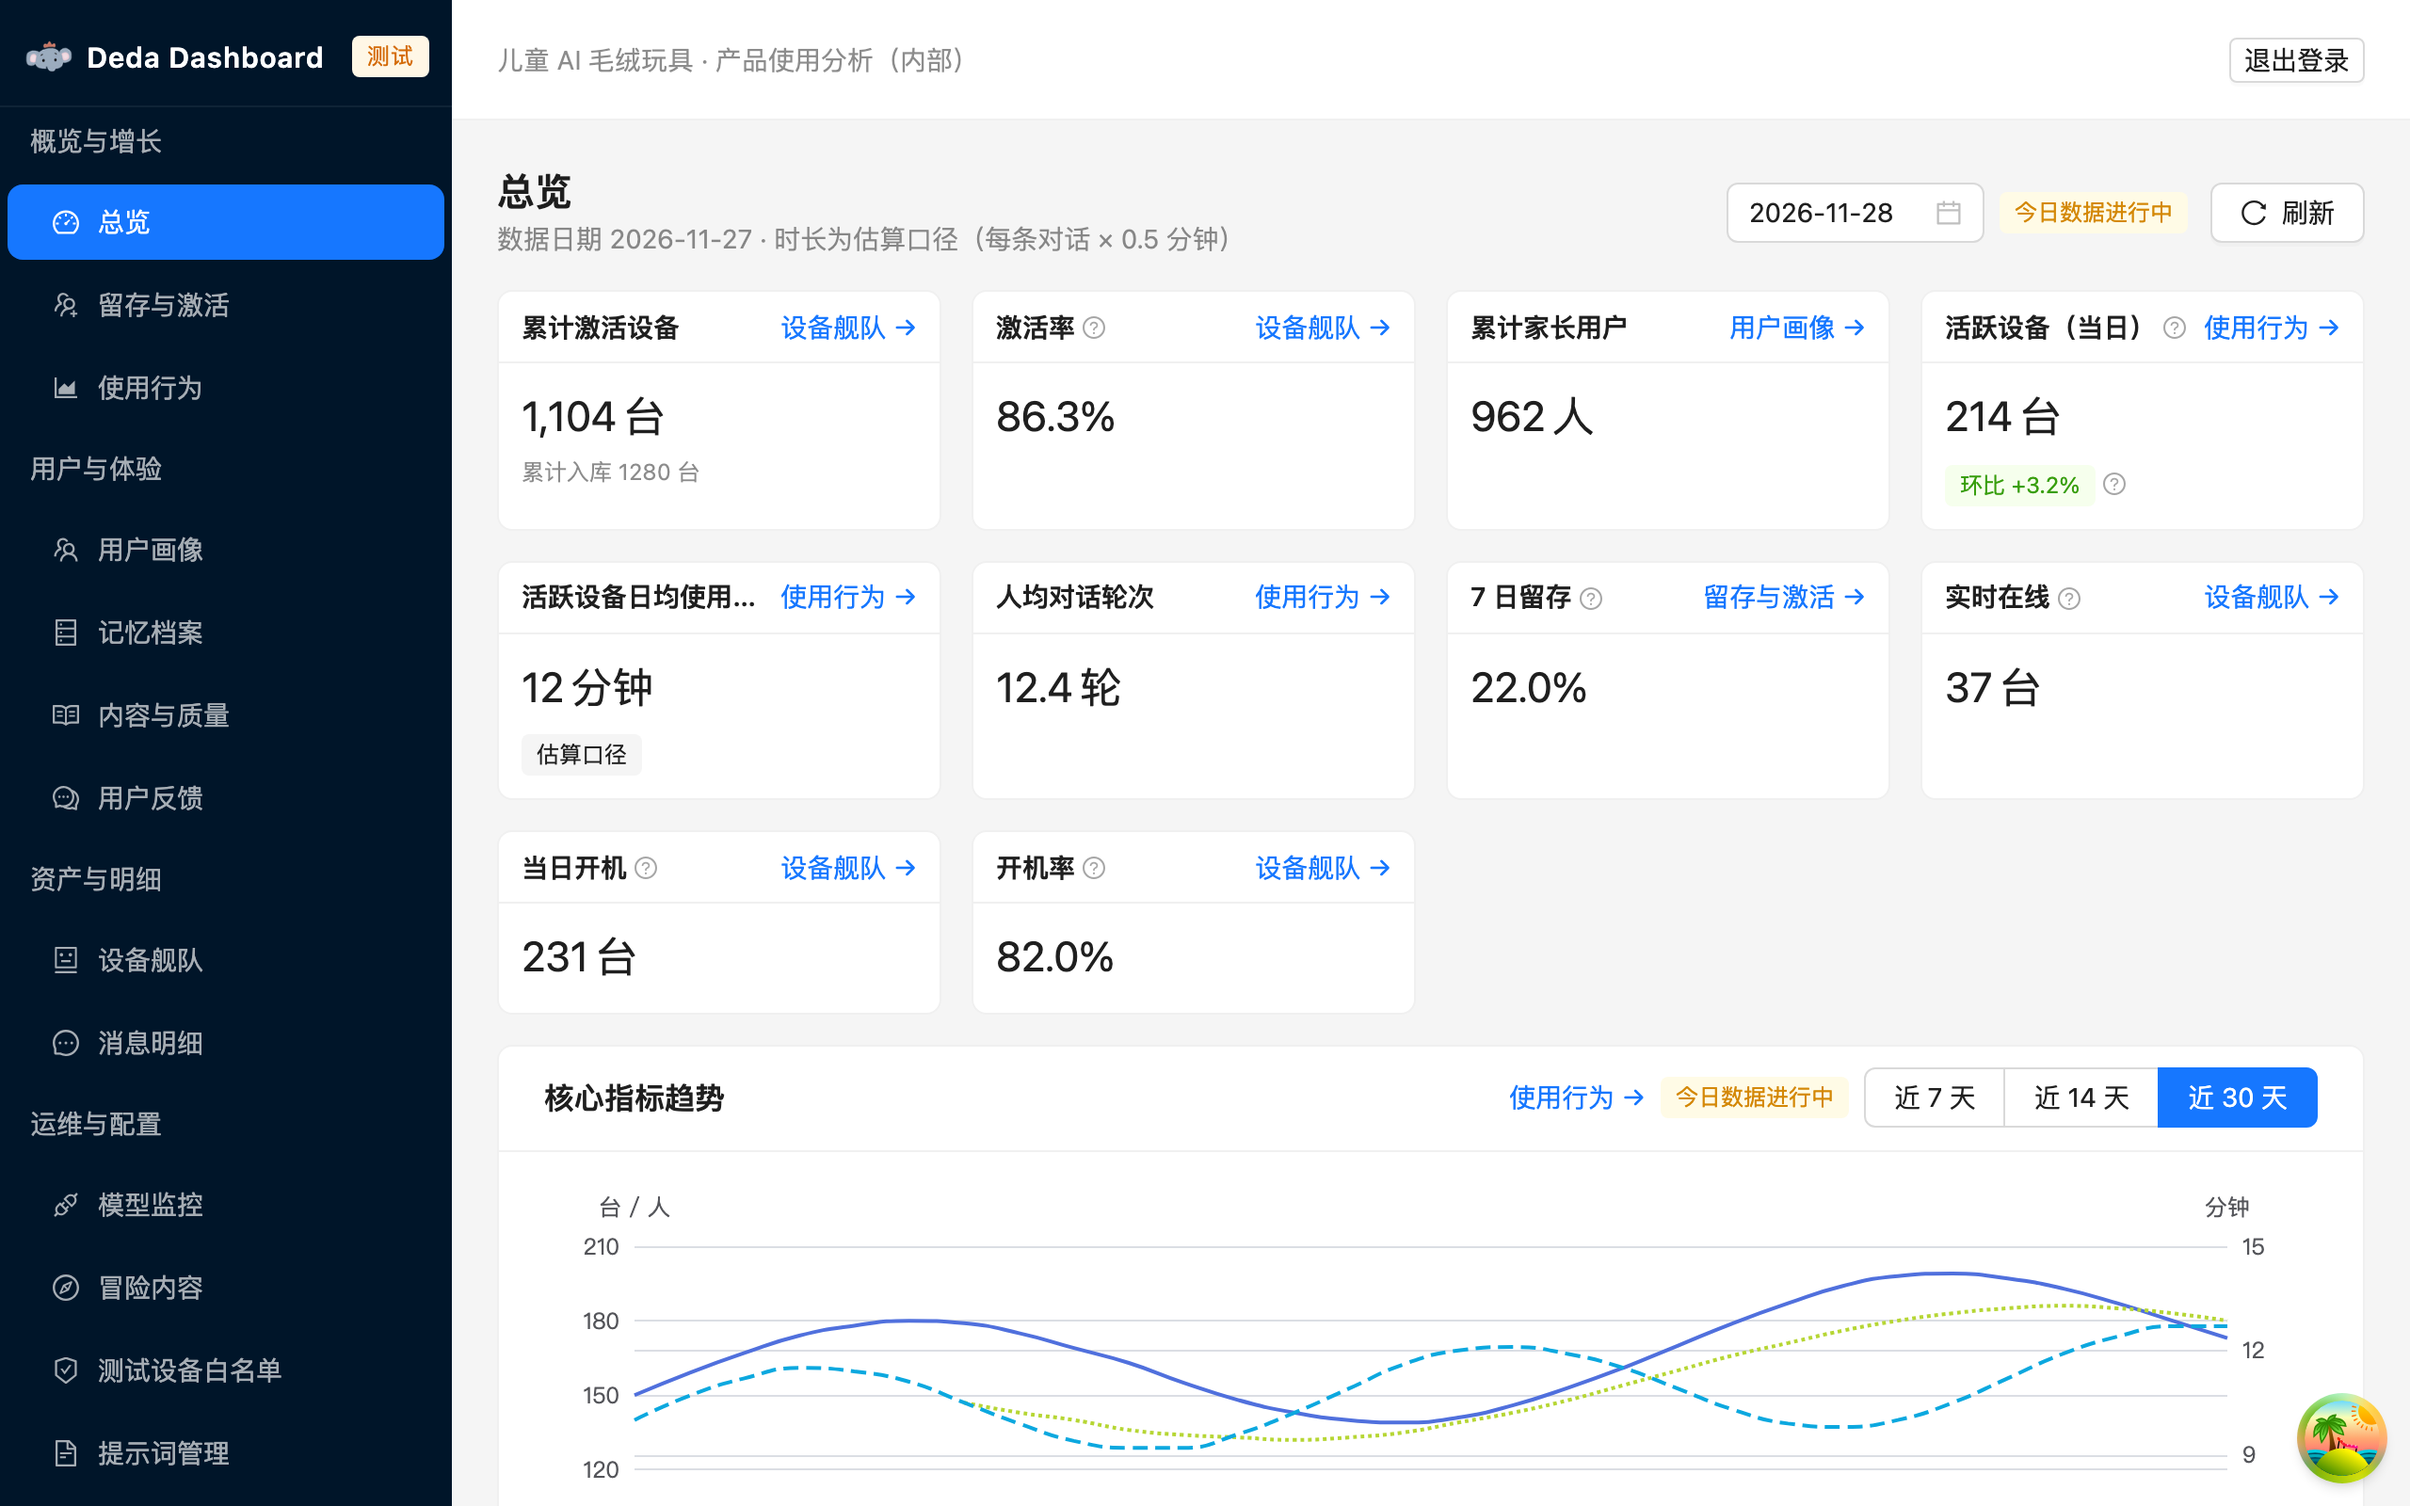
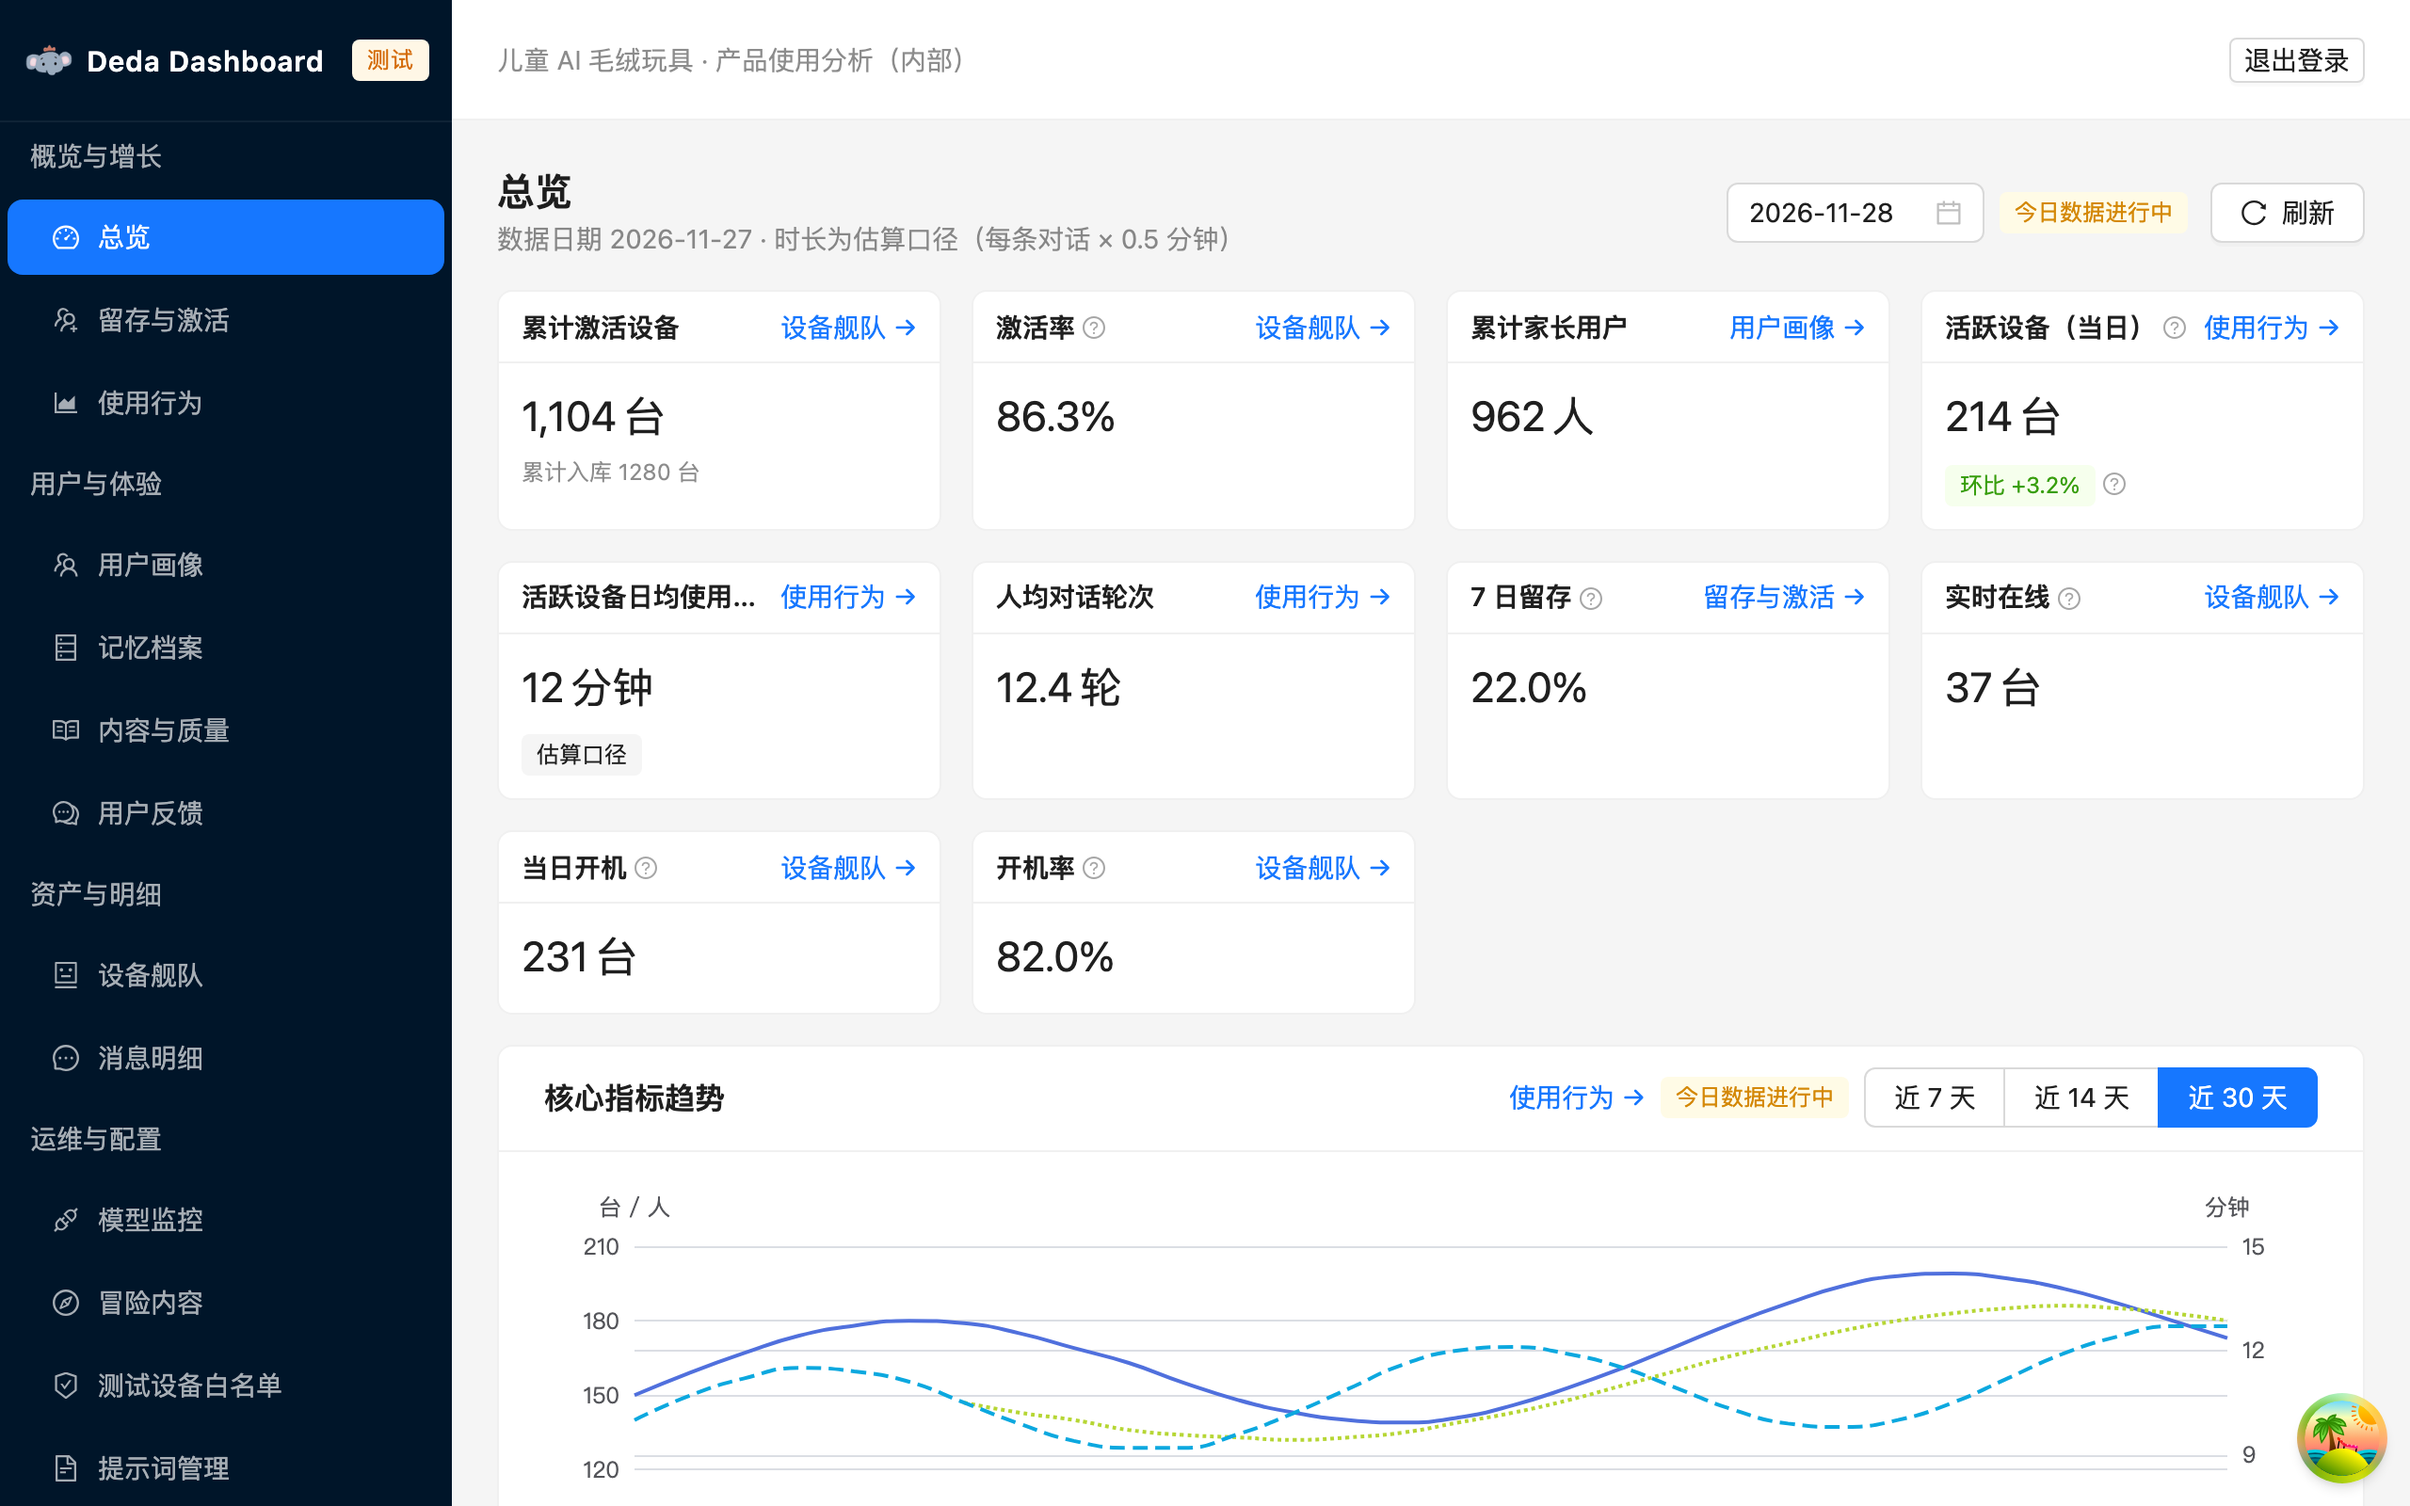
fix(mobile): 平板表格横向滚动、品牌头对齐顶栏、短视频预览高度封顶
- 平板档（768–991）表格未传 scroll 时默认 x: max-content：图标栏占掉 64px 后
  正文约 650px，列多的表会把每列压成竖排（提示词目录实测）；桌面档不加，
  渲染度量保持不变
- 品牌头 min-height 与 antd Layout.Header 对齐（64px），侧栏与顶栏顶边同高
- 短视频预览 max-height 320 + object-fit: contain：竖屏成片不再顶走整页
- 预览：提示词管理 768 宽与 1280 顶栏对齐截图随提交入库

diff --git a/src/components/ResponsiveTable.test.tsx b/src/components/ResponsiveTable.test.tsx
@@ -204,6 +204,54 @@ describe('ResponsiveTable 形态切换', () => {
     expect(screen.getAllByTestId(/^card-r-/)).toHaveLength(1)
   })
 
+  it('桌面未传 scroll：不给表格加横向滚动，度量与改动前一致', () => {
+    render(
+      <ResponsiveTable<Row>
+        rowKey="id"
+        columns={COLUMNS}
+        dataSource={makeRows(2)}
+        pagination={false}
+      />,
+    )
+
+    const content = document.querySelector('.ant-table-content') as HTMLElement
+    expect(content.style.overflowX).not.toBe('auto')
+  })
+
+  it('调用方传了 scroll 时以调用方为准', () => {
+    render(
+      <ResponsiveTable<Row>
+        rowKey="id"
+        columns={COLUMNS}
+        dataSource={makeRows(2)}
+        pagination={false}
+        scroll={{ x: 1200 }}
+      />,
+    )
+
+    const table = document.querySelector('.ant-table-content table') as HTMLElement
+    expect(table.style.width).toBe('1200px')
+  })
+
+  it('平板宽度（900）仍是表格，未传 scroll 时默认横向滚动', () => {
+    act(() => setViewportWidth(900))
+    render(
+      <ResponsiveTable<Row>
+        rowKey="id"
+        columns={COLUMNS}
+        dataSource={makeRows(2)}
+        pagination={false}
+      />,
+    )
+
+    expect(screen.getByRole('table')).toBeInTheDocument()
+    const content = document.querySelector('.ant-table-content') as HTMLElement
+    expect(content.style.overflowX).toBe('auto')
+    expect(document.querySelector('.ant-table-content table')).toHaveStyle(
+      'width: max-content',
+    )
+  })
+
   it('分组表头（列有 children）无法摊平，退回横向滚动表格', () => {
     renderMobile({
       rowKey: 'id',

diff --git a/src/components/ResponsiveTable.tsx b/src/components/ResponsiveTable.tsx
@@ -3,7 +3,7 @@ import type { Key, MouseEvent, ReactNode } from 'react'
 import { Button, Card, Empty, Pagination, Select, Space, Spin, Table } from 'antd'
 import type { TableProps } from 'antd'
 import type { ColumnsType, ColumnType } from 'antd/es/table'
-import { useIsMobile } from '../utils/use-layout-mode'
+import { useLayoutMode } from '../utils/use-layout-mode'
 
 export interface ResponsiveTableProps<RowType extends object>
   extends TableProps<RowType> {
@@ -29,9 +29,14 @@ export interface ResponsiveTableProps<RowType extends object>
 export default function ResponsiveTable<RowType extends object>(
   props: ResponsiveTableProps<RowType>,
 ) {
-  const isMobile = useIsMobile()
-  if (!isMobile) return <Table<RowType> {...props} />
-  return <MobileCards {...props} />
+  const mode = useLayoutMode()
+  // 平板（768–991）默认给横向滚动：图标栏占掉 64px 后正文只有 ~650px，
+  // 列多的表格会不再换行而是把每列压成竖排文字。max-content + min-width:100%
+  // 在放得下时与原来完全一致；桌面档不强行加，避免改变现有的表格度量。
+  const scroll =
+    props.scroll ?? (mode === 'tablet' ? { x: 'max-content' as const } : undefined)
+  if (mode !== 'mobile') return <Table<RowType> {...props} scroll={scroll} />
+  return <MobileCards {...props} scroll={scroll} />
 }
 
 function columnKey<RowType>(column: ColumnType<RowType>): string {

diff --git a/src/pages/AdventureStudio/VideoJobCard.tsx b/src/pages/AdventureStudio/VideoJobCard.tsx
@@ -180,7 +180,15 @@ export default function VideoJobCard({ job, authoring }: Props) {
                 controls
                 preload="metadata"
                 src={preview.data.url}
-                style={{ width: '100%', borderRadius: 8, background: '#000' }}
+                // 竖屏成片按自然比例能长到上千像素，手机上会把整页顶走：
+                // 宽度跟随容器，高度封顶，留黑边由 object-fit 处理
+                style={{
+                  width: '100%',
+                  maxHeight: 320,
+                  objectFit: 'contain',
+                  borderRadius: 8,
+                  background: '#000',
+                }}
               />
               <Space size={12}>
                 <Typography.Link href={preview.data.url} target="_blank" rel="noreferrer">

diff --git a/src/layouts/AdminLayout.test.tsx b/src/layouts/AdminLayout.test.tsx
@@ -104,6 +104,21 @@ describe('AdminLayout 标题与环境标签', () => {
     expect(tag).toHaveTextContent('测试')
   })
 
+  it('品牌头与顶栏同高（64px），两栏顶边在同一条水平线上', () => {
+    stubMeta({
+      nodeEnv: 'staging',
+      promptWriteEnabled: true,
+      publishConfirmCode: 'DEDA2025',
+    })
+    renderLayout()
+
+    // antd Header 高度 = controlHeight(32) × 2 = 64；品牌头不设这个下限会矮一截
+    expect(screen.getByTestId('brand-header')).toHaveStyle('min-height: 64px')
+    expect(document.querySelector('.ant-layout-header')).toHaveClass(
+      'ant-layout-header',
+    )
+  })
+
   it('品牌头钉在侧栏顶端：菜单滚动时不跟着走', () => {
     stubMeta({
       nodeEnv: 'staging',

diff --git a/src/layouts/SideNav.tsx b/src/layouts/SideNav.tsx
@@ -131,12 +131,15 @@ export default function SideNav({
           position: 'sticky',
           top: 0,
           zIndex: 1,
+          // 与 antd Layout.Header 同高（controlHeight 32 × 2 = 64）：
+          // 两栏顶部必须在同一条水平线上，否则侧栏品牌头比顶栏矮一截
+          minHeight: 64,
           background: '#001529',
           boxShadow: '0 1px 0 rgba(255, 255, 255, 0.06)',
           color: '#fff',
           fontWeight: 600,
           fontSize: 15,
-          padding: collapsed ? '16px 0 12px' : '16px 12px 12px',
+          padding: collapsed ? '0' : '0 12px',
           letterSpacing: 0.5,
           display: 'flex',
           alignItems: 'center',

diff --git a/src/pages/AdventureStudio/VideoJobCard.test.tsx b/src/pages/AdventureStudio/VideoJobCard.test.tsx
@@ -71,8 +71,10 @@ describe('VideoJobCard', () => {
         authoring
       />,
     )
-    const video = document.querySelector('video')
+    const video = document.querySelector('video') as HTMLVideoElement
     expect(video?.getAttribute('src')).toBe('https://oss/final.mp4?sig=1')
+    // 竖屏成片高度封顶，否则手机上播放器会把整页顶走
+    expect(video).toHaveStyle({ maxHeight: '320px', objectFit: 'contain' })
     expect(screen.getByText(/系统音色试跑/)).toBeTruthy()
   })
 
